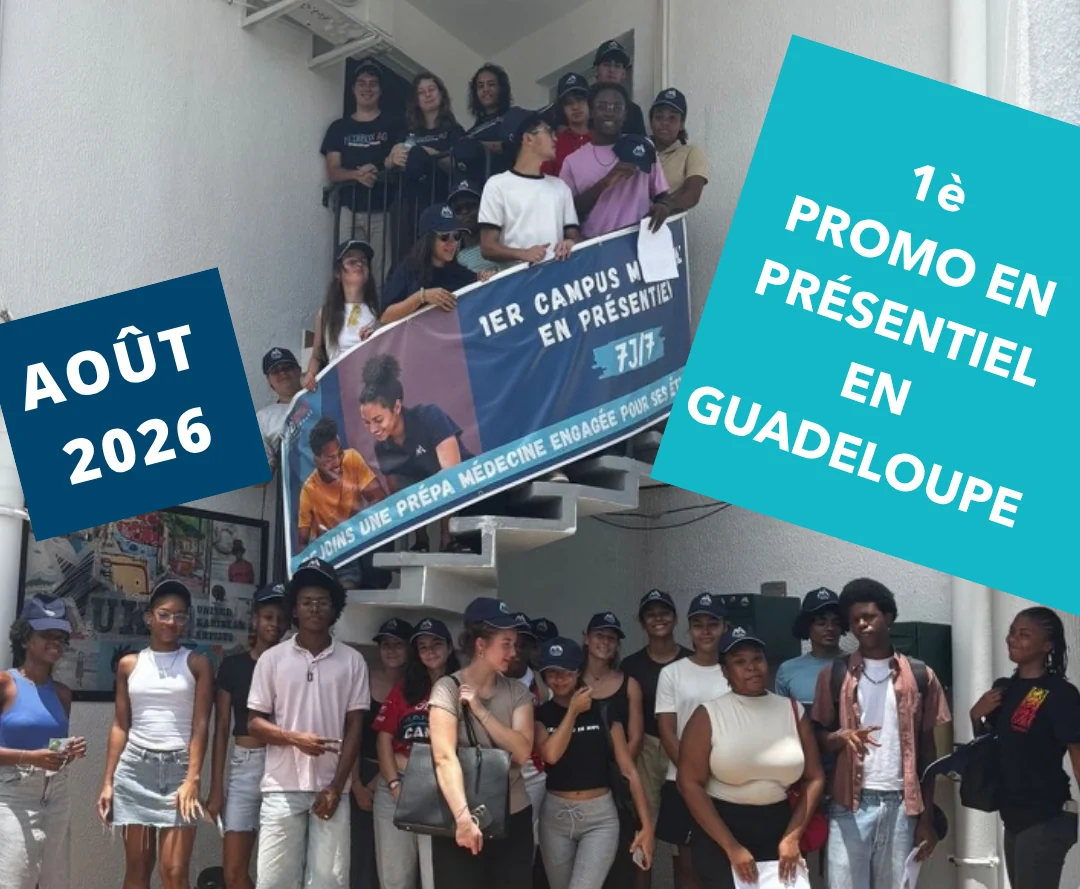
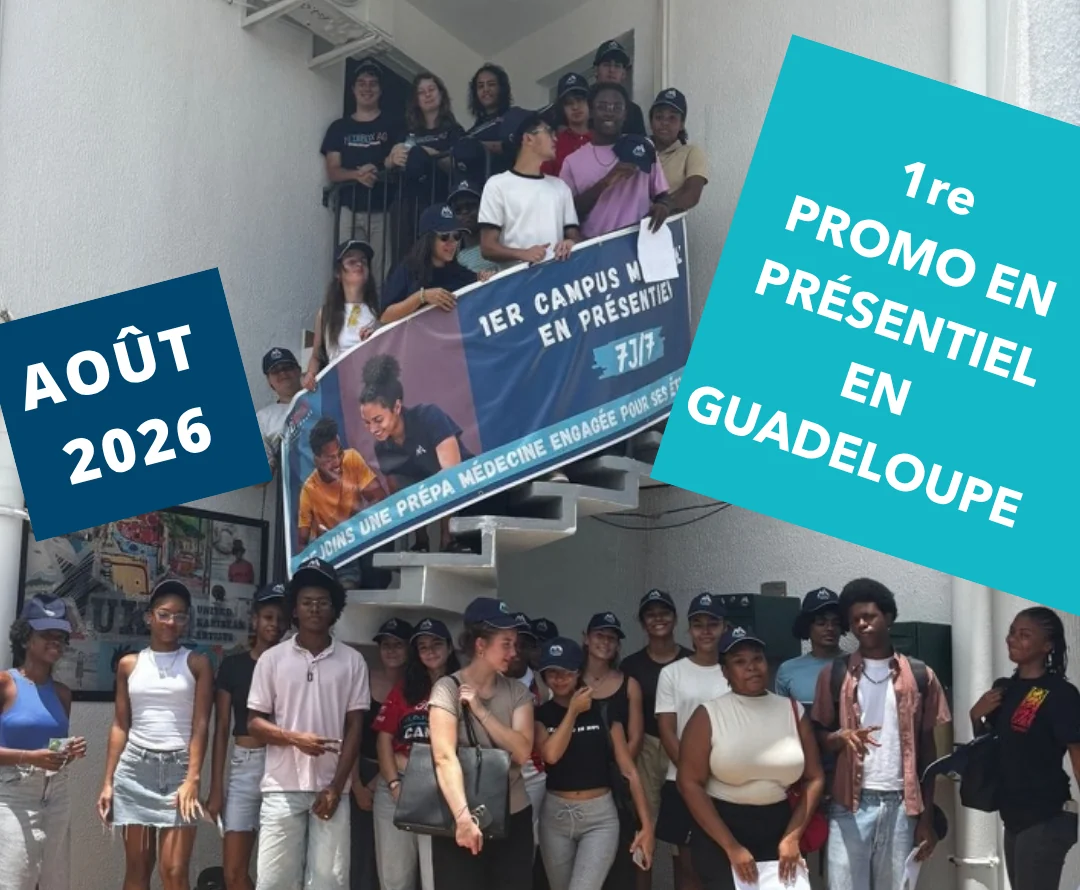
Hero : l'ordinal de l'etiquette corrige en « 1re promo »
Elisabeth a refait l'image. Hauteur reelle 890 px et non 889 : les attributs
width/height et l'aspect-ratio du CSS sont alignes dessus, pour qu'aucun
decalage de mise en page n'apparaisse au chargement.

diff --git a/index.html b/index.html
@@ -87,7 +87,7 @@
         <p class="hero-note">Rentrée 2026-2027 · places limitées par territoire et par filière</p>
       </div>
       <div class="hero-visuel">
-        <img src="assets/img/promo-presentiel-2026.webp" width="1080" height="889" alt="La première promotion en présentiel en Guadeloupe, août 2026, devant la banderole MediBox">
+        <img src="assets/img/promo-presentiel-2026.webp" width="1080" height="890" alt="La première promotion en présentiel en Guadeloupe, août 2026, devant la banderole MediBox">
         <span class="etiquette hero-chip hero-chip--bas">6 ans à vos côtés</span>
       </div>
     </div>

diff --git a/assets/site.css b/assets/site.css
@@ -344,7 +344,7 @@ h3 { font-size: clamp(1.15rem, 2.2vw, 1.45rem); }
   width: min(460px, 76vw);
   /* L'image porte ses propres étiquettes dans les coins : on la montre
      entière plutôt que de la recadrer en carré, ce qui les amputerait. */
-  aspect-ratio: 1080 / 889;
+  aspect-ratio: 1080 / 890;
   object-fit: cover;
   box-shadow: 0 24px 48px rgba(0, 0, 0, 0.4);
 }
